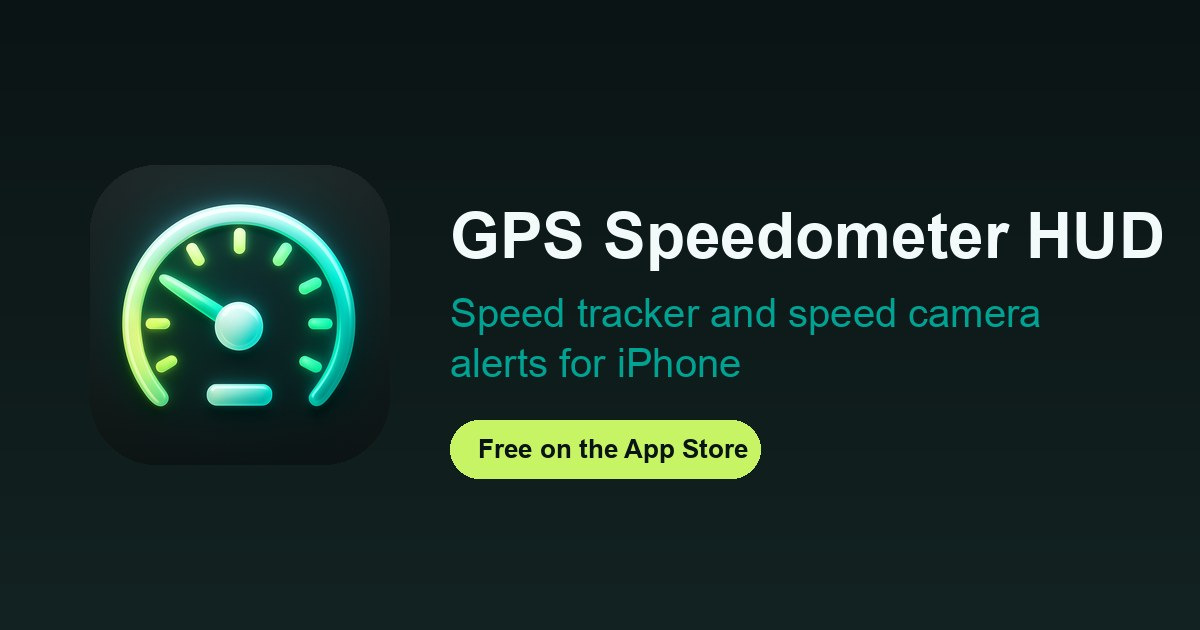
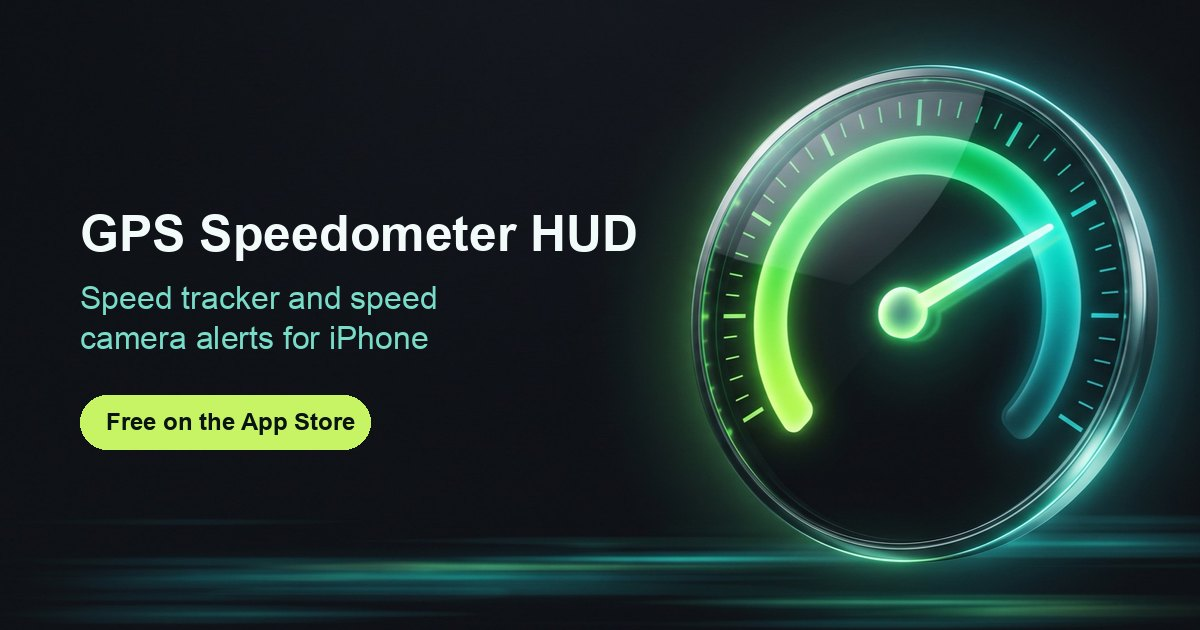
Marketing copy, generated hero and OG imagery, six features, six FAQs

diff --git a/index.html b/index.html
@@ -3,8 +3,8 @@
 <head>
   <meta charset="utf-8">
   <meta name="viewport" content="width=device-width, initial-scale=1">
-  <title>GPS Speedometer HUD: Speed Camera Alerts for iPhone</title>
-  <meta name="description" content="GPS Speedometer HUD shows your speed and heading with GPS accuracy, maps nearby speed cameras and alerts you as you approach one. Free on the App Store.">
+  <title>GPS Speedometer HUD: Speed &amp; Camera Alerts</title>
+  <meta name="description" content="See your real speed by GPS and spot nearby speed cameras on a live map. A clean, glanceable speedometer HUD for iPhone.">
   <link rel="canonical" href="https://www.speedometerhud.com/">
   <link rel="icon" type="image/png" sizes="32x32" href="/assets/img/icon-32.png">
   <link rel="apple-touch-icon" href="/assets/img/icon-180.png">
@@ -13,14 +13,14 @@
 
   <meta property="og:type" content="website">
   <meta property="og:site_name" content="GPS Speedometer HUD">
-  <meta property="og:title" content="GPS Speedometer HUD: Speed Camera Alerts for iPhone">
-  <meta property="og:description" content="See your speed and heading with GPS accuracy. Map nearby speed cameras and get an alert as you approach one. Free on the App Store.">
+  <meta property="og:title" content="GPS Speedometer HUD: Speed &amp; Camera Alerts">
+  <meta property="og:description" content="See your real speed by GPS and spot nearby speed cameras on a live map. A clean, glanceable speedometer HUD for iPhone.">
   <meta property="og:url" content="https://www.speedometerhud.com/">
   <meta property="og:image" content="https://www.speedometerhud.com/assets/img/og-image.jpg">
-  <meta property="og:image:alt" content="GPS Speedometer HUD app on an iPhone, showing the speed display and the speed camera map">
+  <meta property="og:image:alt" content="GPS Speedometer HUD: a glowing speedometer dial with the app name and App Store badge">
   <meta name="twitter:card" content="summary_large_image">
-  <meta name="twitter:title" content="GPS Speedometer HUD: Speed Camera Alerts for iPhone">
-  <meta name="twitter:description" content="See your speed and heading with GPS accuracy. Map nearby speed cameras and get an alert as you approach one. Free on the App Store.">
+  <meta name="twitter:title" content="GPS Speedometer HUD: Speed &amp; Camera Alerts">
+  <meta name="twitter:description" content="See your real speed by GPS and spot nearby speed cameras on a live map. A clean, glanceable speedometer HUD for iPhone.">
   <meta name="twitter:image" content="https://www.speedometerhud.com/assets/img/og-image.jpg">
 
   <link rel="stylesheet" href="/assets/css/style.css">
@@ -46,7 +46,7 @@
       {
         "@type": "SoftwareApplication",
         "name": "GPS Speedometer HUD",
-        "description": "GPS Speedometer HUD shows your speed and heading with GPS accuracy, maps nearby speed cameras and alerts you as you approach one.",
+        "description": "See your real speed by GPS and spot nearby speed cameras on a live map. A clean, glanceable speedometer HUD for iPhone.",
         "url": "https://www.speedometerhud.com/",
         "applicationCategory": "UtilitiesApplication",
         "operatingSystem": "iOS",
@@ -60,10 +60,12 @@
       {
         "@type": "FAQPage",
         "mainEntity": [
-          { "@type": "Question", "name": "Is GPS Speedometer HUD free?", "acceptedAnswer": { "@type": "Answer", "text": "Yes. The app is free to download and use. A Speedometer HUD Pro subscription unlocks all features." } },
-          { "@type": "Question", "name": "Where does the speed camera data come from?", "acceptedAnswer": { "@type": "Answer", "text": "Speed camera locations come from OpenStreetMap, made available under the Open Database License." } },
-          { "@type": "Question", "name": "Do speed camera alerts work in the background?", "acceptedAnswer": { "@type": "Answer", "text": "No. Alerts show only while the app is open and in the foreground. Turn on Prevent Screen Locking in Settings to keep the app on screen while you drive." } },
-          { "@type": "Question", "name": "Can I switch between km/h and mph?", "acceptedAnswer": { "@type": "Answer", "text": "Yes. Change the units in the app settings." } }
+          { "@type": "Question", "name": "Is GPS Speedometer HUD free?", "acceptedAnswer": { "@type": "Answer", "text": "Yes. It is free to download and use, with an optional Speedometer HUD Pro subscription." } },
+          { "@type": "Question", "name": "Where does the speed camera data come from?", "acceptedAnswer": { "@type": "Answer", "text": "From OpenStreetMap, a community map project, under the ODbL licence. Coverage depends on the data in your area." } },
+          { "@type": "Question", "name": "Do the camera alerts work in the background?", "acceptedAnswer": { "@type": "Answer", "text": "Alerts work while the app is open and on screen. Keep the app open while you drive." } },
+          { "@type": "Question", "name": "How accurate is the speed?", "acceptedAnswer": { "@type": "Answer", "text": "Speed comes from your iPhone GPS. It is a close estimate, not a certified reading. Always follow your car speedometer and the road signs." } },
+          { "@type": "Question", "name": "Does it need an internet connection?", "acceptedAnswer": { "@type": "Answer", "text": "GPS speed works without data. The map and the camera data need a connection to load." } },
+          { "@type": "Question", "name": "Which devices are supported?", "acceptedAnswer": { "@type": "Answer", "text": "iPhone on iOS 13 or later." } }
         ]
       }
     ]
@@ -84,57 +86,58 @@
   </header>
 
   <main>
-    <section class="wrap hero" id="top">
-      <div>
-        <h1>GPS Speedometer HUD<span class="sub">Speed tracker and speed camera alerts for iPhone</span></h1>
-        <p class="lead">A modern addition to your car's dashboard. See your speed and heading with GPS accuracy, watch nearby speed cameras on the map, and get an alert as you approach one.</p>
-        <div class="cta">
-          <a href="https://apps.apple.com/app/id528965819" rel="noopener"><img src="/assets/img/app-store-badge.svg" alt="Download on the App Store" width="162" height="54"></a>
-          <span class="meta">Free. Requires iOS 13 or later.</span>
+    <div class="hero-bg">
+      <section class="wrap hero" id="top">
+        <div>
+          <h1>GPS Speedometer HUD<span class="sub">Your speed and nearby speed cameras, in one clean display.</span></h1>
+          <p class="lead">Know your speed. See the cameras ahead. A GPS speedometer app for iPhone with known speed cameras on a live map.</p>
+          <div class="cta">
+            <a href="https://apps.apple.com/app/id528965819" rel="noopener"><img src="/assets/img/app-store-badge.svg" alt="Download GPS Speedometer HUD on the App Store" width="162" height="54"></a>
+            <span class="meta">Free. iPhone, iOS 13 or later.</span>
+          </div>
         </div>
-      </div>
-      <div class="hero-art">
-        <img src="/assets/img/icon-512.png" alt="GPS Speedometer HUD app icon" width="512" height="512">
-      </div>
-    </section>
+      </section>
+    </div>
 
     <section class="wrap" id="features">
-      <h2>Everything you need on the dash</h2>
-      <p class="intro">Built for the phone mount. Big numbers, a clear map and alerts you can hear.</p>
+      <h2>A speedometer app built for the phone mount</h2>
+      <p class="intro">Big digits, a live speed camera map and alerts you can hear. Easy to read in the car, day or night.</p>
       <div class="features">
-        <div class="feature"><div class="ic">&#9201;</div><h3>GPS speed</h3><p>Your current speed from the phone's GPS, in large digits you can read at a glance.</p></div>
-        <div class="feature"><div class="ic">&#129517;</div><h3>Heading</h3><p>See the direction you are travelling next to your speed.</p></div>
-        <div class="feature"><div class="ic">&#128247;</div><h3>Speed cameras on the map</h3><p>Nearby speed cameras appear on the map as you drive, with data from OpenStreetMap.</p></div>
-        <div class="feature"><div class="ic">&#128276;</div><h3>Camera alerts</h3><p>Turn on alerts and the app tells you when you approach a speed camera, with the name of the road.</p></div>
-        <div class="feature"><div class="ic">&#9881;</div><h3>Your units</h3><p>Switch between km/h and mph in settings.</p></div>
-        <div class="feature"><div class="ic">&#9728;</div><h3>Stays awake</h3><p>Prevent screen locking so the display stays on for the whole drive.</p></div>
+        <div class="feature"><div class="ic">&#9201;</div><h3>Big, glanceable speed</h3><p>A large digital readout shows your GPS speed. One glance and your eyes are back on the road.</p></div>
+        <div class="feature"><div class="ic">&#128247;</div><h3>Speed cameras on the map</h3><p>See known speed cameras near you on a live map, drawn from OpenStreetMap data.</p></div>
+        <div class="feature"><div class="ic">&#128276;</div><h3>Alerts as you approach</h3><p>Turn on alerts and the app warns you as you near a speed camera. Alerts work while the app is open.</p></div>
+        <div class="feature"><div class="ic">&#129517;</div><h3>Heading at a glance</h3><p>A clear compass heading shows which way you are travelling.</p></div>
+        <div class="feature"><div class="ic">&#9881;</div><h3>Your units, your way</h3><p>Switch between mph and km/h. Keep the screen awake so your speed stays in view.</p></div>
+        <div class="feature"><div class="ic">&#127769;</div><h3>Easy to read, day or night</h3><p>A dark, high-contrast layout stays clear in bright sun and after dark.</p></div>
       </div>
     </section>
 
     <section class="wrap" id="screens">
       <h2>See it in action</h2>
-      <p class="intro">The speed display, the speed camera map and an alert, as shown on the App Store.</p>
+      <p class="intro">The digital speedometer, the speed camera map and the units settings, as shown on the App Store.</p>
       <div class="shots">
-        <figure><img src="/assets/img/screenshot-1.jpg" alt="GPS Speedometer HUD showing 88 mph above a map" width="620" height="1344" loading="lazy"><figcaption>GPS speedometer</figcaption></figure>
-        <figure><img src="/assets/img/screenshot-2.jpg" alt="Speed camera nearby alert above the map and the 88 mph speed display" width="620" height="1344" loading="lazy"><figcaption>Speed cameras on the map</figcaption></figure>
+        <figure><img src="/assets/img/screenshot-1.jpg" alt="GPS speedometer app showing 88 mph in large digits above a live map" width="620" height="1344" loading="lazy"><figcaption>Digital GPS speedometer</figcaption></figure>
+        <figure><img src="/assets/img/screenshot-2.jpg" alt="Speed camera alert banner above the map in the speedometer app" width="620" height="1344" loading="lazy"><figcaption>Speed camera alert on the live map</figcaption></figure>
         <figure><img src="/assets/img/screenshot-3.jpg" alt="Settings screen with speed camera alerts on and the units picker" width="620" height="1344" loading="lazy"><figcaption>Units in km/h, mph or knots</figcaption></figure>
       </div>
     </section>
 
     <section class="wrap faq" id="faq">
       <h2>Frequently asked questions</h2>
-      <details><summary>Is GPS Speedometer HUD free?</summary><p>Yes. The app is free to download and use. A Speedometer HUD Pro subscription unlocks all features.</p></details>
-      <details><summary>Where does the speed camera data come from?</summary><p>Speed camera locations come from OpenStreetMap, made available under the Open Database License.</p></details>
-      <details><summary>Do speed camera alerts work in the background?</summary><p>No. Alerts show only while the app is open and in the foreground. Turn on Prevent Screen Locking in Settings to keep the app on screen while you drive.</p></details>
-      <details><summary>Can I switch between km/h and mph?</summary><p>Yes. Change the units in the app settings.</p></details>
+      <details><summary>Is GPS Speedometer HUD free?</summary><p>Yes. It is free to download and use, with an optional Speedometer HUD Pro subscription.</p></details>
+      <details><summary>Where does the speed camera data come from?</summary><p>From OpenStreetMap, a community map project, under the ODbL licence. Coverage depends on the data in your area.</p></details>
+      <details><summary>Do the camera alerts work in the background?</summary><p>Alerts work while the app is open and on screen. Keep the app open while you drive.</p></details>
+      <details><summary>How accurate is the speed?</summary><p>Speed comes from your iPhone GPS. It is a close estimate, not a certified reading. Always follow your car speedometer and the road signs.</p></details>
+      <details><summary>Does it need an internet connection?</summary><p>GPS speed works without data. The map and the camera data need a connection to load.</p></details>
+      <details><summary>Which devices are supported?</summary><p>iPhone on iOS 13 or later.</p></details>
     </section>
 
     <section class="closing">
       <div class="wrap">
-        <h2>Put a speedometer on your dash today</h2>
-        <p>Free on the App Store for iPhone.</p>
+        <h2>Keep your speed and the cameras in clear view</h2>
+        <p>Download GPS Speedometer HUD, free on the App Store for iPhone.</p>
         <div class="cta">
-          <a href="https://apps.apple.com/app/id528965819" rel="noopener"><img src="/assets/img/app-store-badge.svg" alt="Download on the App Store" width="162" height="54"></a>
+          <a href="https://apps.apple.com/app/id528965819" rel="noopener"><img src="/assets/img/app-store-badge.svg" alt="Download GPS Speedometer HUD on the App Store" width="162" height="54"></a>
         </div>
       </div>
     </section>

diff --git a/assets/css/style.css b/assets/css/style.css
@@ -36,21 +36,23 @@ img { max-width: 100%; display: block; }
 @media (max-width: 600px) { .nav { display: none; } }
 
 /* hero */
-.hero { padding: 48px 0 24px; display: grid; grid-template-columns: 1.1fr 0.9fr; gap: 40px; align-items: center; }
-.hero h1 { overflow-wrap: anywhere; font-size: clamp(2.1rem, 5vw, 3.4rem); line-height: 1.08; letter-spacing: -0.02em; font-weight: 800; }
-.hero h1 .sub { display: block; font-size: 0.5em; font-weight: 500; color: var(--teal); margin-top: 14px; letter-spacing: 0; line-height: 1.3; }
-.hero p.lead { color: var(--muted); font-size: 1.15rem; margin: 20px 0 28px; max-width: 34em; }
+.hero-bg {
+  background: #0b1414 url(/assets/img/hero-desktop.jpg) center right / cover no-repeat;
+}
+.hero { min-height: 660px; display: flex; align-items: center; padding: 72px 0 96px; max-width: var(--max); margin: 0 auto; }
+.hero > div { max-width: 560px; min-width: 0; }
+.hero h1 { overflow-wrap: anywhere; font-size: clamp(2.1rem, 5vw, 3.4rem); line-height: 1.08; letter-spacing: -0.02em; font-weight: 800; text-shadow: 0 2px 24px rgba(0,0,0,0.6); }
+.hero h1 .sub { display: block; font-size: 0.5em; font-weight: 500; color: var(--lime); margin-top: 14px; letter-spacing: 0; line-height: 1.3; }
+.hero p.lead { color: var(--text); font-size: 1.2rem; margin: 20px 0 28px; max-width: 30em; text-shadow: 0 2px 16px rgba(0,0,0,0.7); }
 .cta { display: inline-flex; align-items: center; gap: 12px; flex-wrap: wrap; }
 .cta img { height: 54px; width: auto; }
 .cta .meta { color: var(--muted); font-size: 0.9rem; }
-.hero > * { min-width: 0; }
-.hero-art { display: flex; justify-content: center; }
-.hero-art img { width: 100%; max-width: 440px; border-radius: 28px; box-shadow: 0 30px 80px rgba(0,0,0,0.55); }
 @media (max-width: 820px) {
-  .hero { grid-template-columns: 1fr; gap: 28px; padding-top: 24px; text-align: center; }
+  .hero-bg { background: #0b1414 url(/assets/img/hero-phone.jpg) center top / 100% auto no-repeat; }
+  .hero { min-height: 0; display: block; padding: 92vw 0 56px; text-align: center; }
+  .hero > div { max-width: none; }
   .hero p.lead { margin-left: auto; margin-right: auto; }
   .cta { justify-content: center; }
-  .hero-art img { max-width: 320px; }
 }
 
 /* sections */
